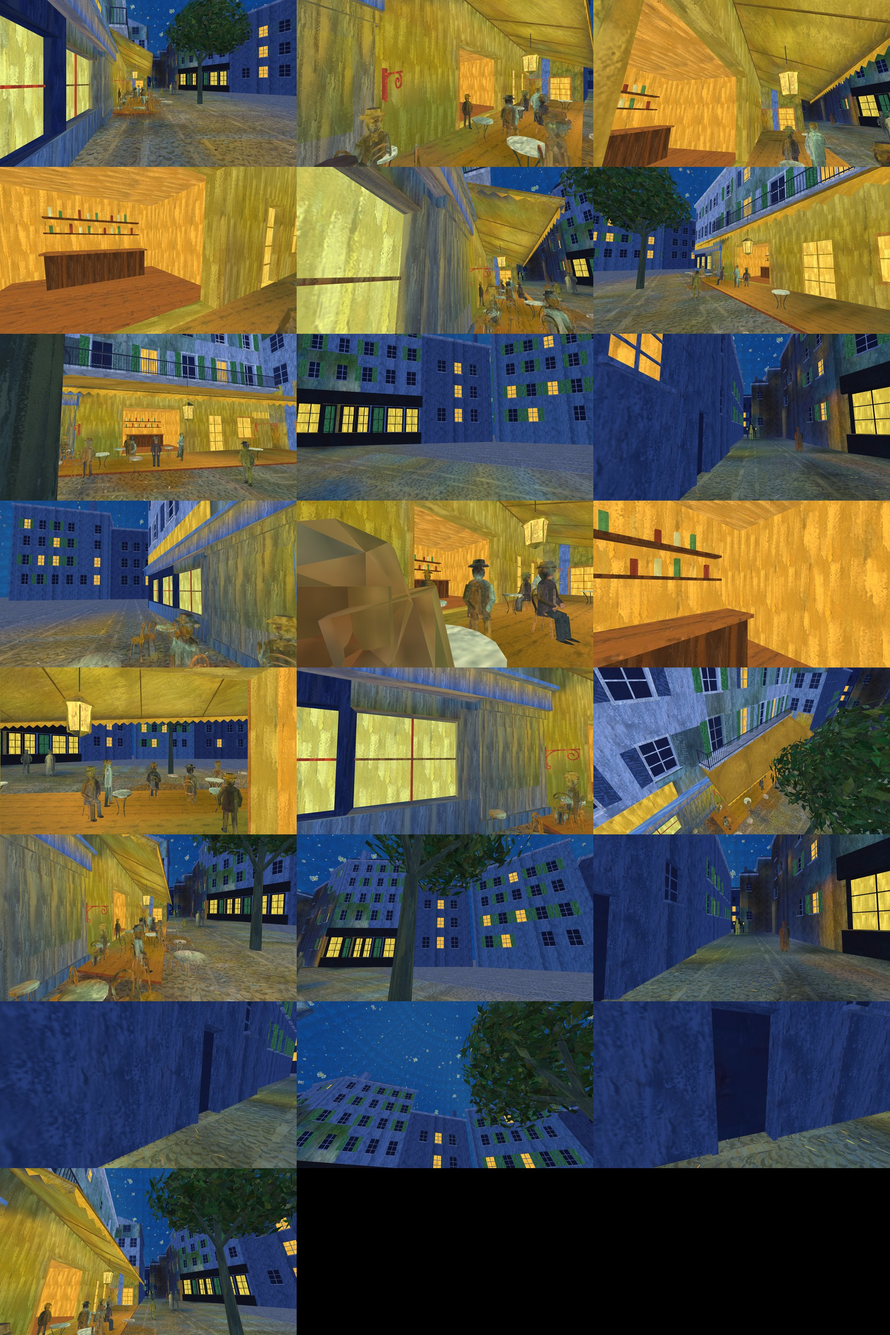
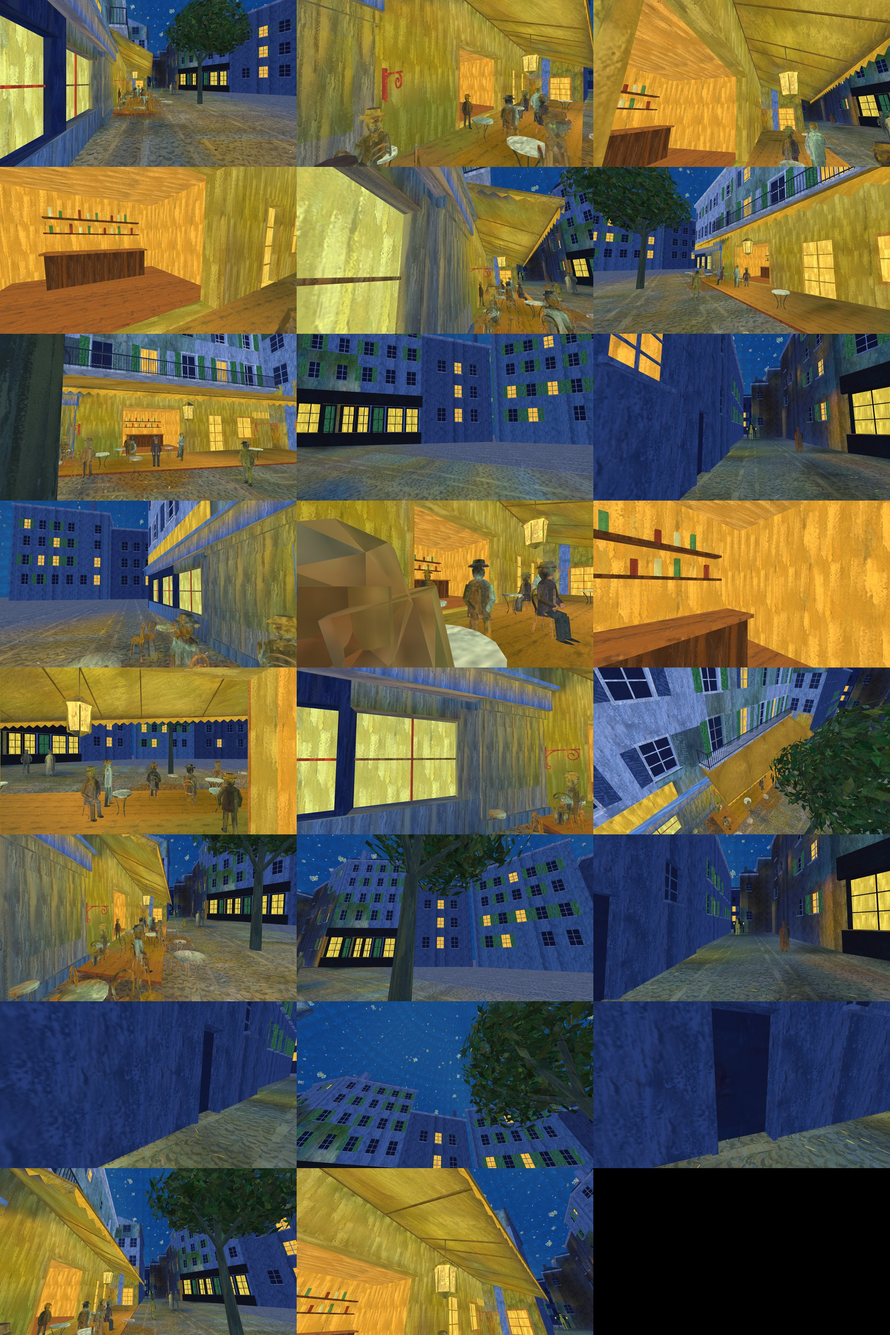
fix: hang the café's lantern from a rafter and keep its rod under the awning
The rod's centre sat half a hook too high and the awning's height was read by x alone, so the rod started 13 cm above the cap and came out 58 cm above the canvas. The awning's height over a point now comes from its four corners, the frame has a rafter over the lantern, and the rod runs from inside the cap into that rafter.

Changed region(s): [[0.3125, 0.875, 0.6875, 1.0]]

diff --git a/tests/cafe-set.test.ts b/tests/cafe-set.test.ts
@@ -3,7 +3,16 @@ import type { Texture } from 'three';
 import { describe, expect, test } from 'vitest';
 import { PAINTER_EYE, toCanvas } from '../src/paintings/cafe-terrace-at-night/canvas';
 import { box, wall, wallFrame, wallPoint } from '../src/paintings/cafe-terrace-at-night/kit';
-import { ID, inPaintedSky, STARS, SWATCH } from '../src/paintings/cafe-terrace-at-night/layout';
+import { buildLantern } from '../src/paintings/cafe-terrace-at-night/lantern';
+import {
+  AWNING,
+  awningOver,
+  ID,
+  inPaintedSky,
+  LAMP,
+  STARS,
+  SWATCH,
+} from '../src/paintings/cafe-terrace-at-night/layout';
 import {
   createPaintMaterial,
   type Paint,
@@ -407,6 +416,62 @@ describe('café set', () => {
     let count = 0;
     while (!steps.next().done) count++;
     expect(count).toBeGreaterThanOrEqual(15);
+  });
+});
+
+describe('café lantern', () => {
+  const set = paintBuilder([]);
+  drain(buildSet(set, mulberry32(8)));
+  const lamp = paintBuilder([]);
+  buildLantern(lamp);
+  const parts = triangles(lamp).map(({ corners }) => corners.map((c) => c[1]));
+  const top = Math.max(...parts.flat());
+
+  /** Heights at which the plumb line through the lantern meets the set, lowest first. */
+  const overhead = triangles(set)
+    .flatMap(({ corners: [a, b, c] }) => {
+      const area = (b[0] - a[0]) * (c[2] - a[2]) - (c[0] - a[0]) * (b[2] - a[2]);
+      if (Math.abs(area) < 1e-9) return [];
+      const u = ((LAMP[0] - a[0]) * (c[2] - a[2]) - (c[0] - a[0]) * (LAMP[2] - a[2])) / area;
+      const v = ((b[0] - a[0]) * (LAMP[2] - a[2]) - (LAMP[0] - a[0]) * (b[2] - a[2])) / area;
+      if (u < 0 || v < 0 || u + v > 1) return [];
+      return [a[1] + u * (b[1] - a[1]) + v * (c[1] - a[1])];
+    })
+    .filter((y) => y > LAMP[1])
+    .sort((p, q) => p - q);
+
+  test('hangs in one piece: its rod meets its cap', () => {
+    const spans = parts.map((ys) => [Math.min(...ys), Math.max(...ys)]).sort((p, q) => p[0] - q[0]);
+    let reached = spans[0][1];
+    for (const [low, high] of spans) {
+      expect(low).toBeLessThanOrEqual(reached + 1e-4);
+      reached = Math.max(reached, high);
+    }
+  });
+
+  test("its rod ends inside a rafter of the awning's frame, and never comes out above it", () => {
+    // The first thing over the lantern is the rafter it hangs from, and the rod stops inside it.
+    expect(overhead.length).toBeGreaterThan(3);
+    expect(top).toBeGreaterThan(overhead[0]);
+    expect(top).toBeLessThan(overhead[1]);
+    expect(overhead[1] - overhead[0]).toBeLessThan(0.06);
+  });
+
+  test("the awning's height over a point is the canvas the set builds there", () => {
+    const { y, along } = awningOver(LAMP[0], LAMP[2]);
+    expect(Math.min(...overhead.map((hit) => Math.abs(hit - y)))).toBeLessThan(0.005);
+    expect(along).toBeGreaterThan(0);
+    expect(along).toBeLessThan(1);
+    for (const [corner, far] of [
+      [AWNING[0], 0],
+      [AWNING[1], 0],
+      [AWNING[2], 1],
+      [AWNING[3], 1],
+    ] as const) {
+      const at = awningOver(corner[0], corner[2]);
+      expect(at.y).toBeCloseTo(corner[1], 6);
+      expect(at.along).toBeCloseTo(far, 6);
+    }
   });
 });
 

diff --git a/src/paintings/cafe-terrace-at-night/scene.ts b/src/paintings/cafe-terrace-at-night/scene.ts
@@ -22,13 +22,12 @@ import { mulberry32 } from '../../util/prng';
 import type { Steps } from '../../util/slicer';
 import { CANVAS_ASPECT } from './canvas';
 import { rasterizeIds } from './id-map';
+import { buildLantern } from './lantern';
 import {
-  AWNING,
   BUILT,
   CHAIRS,
   ID,
   isProp,
-  LAMP,
   PEOPLE,
   SEAT_HEIGHT,
   SWATCH,
@@ -87,7 +86,6 @@ const TABLETOP = 0xb7be97;
 const IRON = 0x313c37;
 const CANE = 0xa9743a;
 const BARK = 0x2a3838;
-const LANTERN = 0xf5cd60;
 
 /** A prop's paint: its own id, and its far side in its near side's colours. */
 function prop(id: number, tint: number, more: Partial<Paint> = {}): Paint {
@@ -360,48 +358,10 @@ export function* buildCafeScene(seed: number, scan: Texture, raster: Raster): St
     }
     yield;
 
-    // The lantern: six lit panes in an iron cage, hung from the awning's frame.
     const lamp = paintBuilder(patches);
-    const glass = new CylinderGeometry(0.2, 0.15, 0.42, 6);
-    const cap = new CylinderGeometry(0.04, 0.25, 0.16, 6);
-    const lit = prop(ID.lamp, LANTERN, { painted: false, lit: true });
-    const cage = prop(ID.lamp, IRON);
-    // As big as the scan paints it: about 0.7 m of glass.
-    const big = 1.6;
-    lamp.mesh(glass, placed(LAMP, [big, big, big]), lit);
-    lamp.mesh(cap, placed([LAMP[0], LAMP[1] + 0.29 * big, LAMP[2]], [big, big, big]), cage);
-    lamp.mesh(
-      cap,
-      placed([LAMP[0], LAMP[1] - 0.25 * big, LAMP[2]], [0.7 * big, -0.5 * big, 0.7 * big]),
-      cage,
-    );
-    for (let i = 0; i < 6; i++) {
-      const a = (i * Math.PI) / 3 + Math.PI / 6;
-      lamp.mesh(
-        cylinder,
-        placed(
-          [LAMP[0] + 0.185 * big * Math.cos(a), LAMP[1], LAMP[2] + 0.185 * big * Math.sin(a)],
-          [0.016, 0.44 * big, 0.016],
-        ),
-        cage,
-      );
-    }
-    // The rod reaches the awning, which falls from the wall to its outer edge.
-    const [nearWall, nearOuter] = AWNING;
-    const fall = (LAMP[0] - nearWall[0]) / (nearOuter[0] - nearWall[0]);
-    const rod =
-      nearWall[1] + (nearOuter[1] - nearWall[1]) * Math.min(1, Math.max(0, fall)) - LAMP[1];
-    const hook = 0.3 * big;
-    lamp.mesh(
-      cylinder,
-      placed(
-        [LAMP[0], LAMP[1] + hook + rod / 2, LAMP[2]],
-        [0.014, Math.max(0.1, rod - hook), 0.014],
-      ),
-      cage,
-    );
+    buildLantern(lamp);
 
-    for (const geometry of [cylinder, bark, table, chair, leaf, glass, cap]) geometry.dispose();
+    for (const geometry of [cylinder, bark, table, chair, leaf]) geometry.dispose();
     yield;
     const sky = paintBuilder(patches);
     const stars = yield* buildSky(sky, raster, mulberry32(seed + 53));

diff --git a/src/paintings/cafe-terrace-at-night/lantern.ts b/src/paintings/cafe-terrace-at-night/lantern.ts
@@ -1,0 +1,42 @@
+import { CylinderGeometry, Matrix4, Quaternion, Vector3 } from 'three';
+import type { Vec3 } from '../../render/strokes/frame';
+import { awningOver, ID, LAMP, RAFTER_DROP, SWATCH } from './layout';
+import type { Paint, PaintBuilder } from './paint';
+
+const IRON = 0x313c37;
+const LANTERN = 0xf5cd60;
+/** As big as the scan paints it: about 0.7 m of glass. */
+const BIG = 1.6;
+
+/** The lantern: six lit panes in an iron cage, hung by a rod from the awning's rafter over it. */
+export function buildLantern(lamp: PaintBuilder): void {
+  const transform = new Matrix4();
+  const upright = new Quaternion();
+  const placed = (at: Vec3, size: Vec3): Matrix4 =>
+    transform.compose(new Vector3(...at), upright, new Vector3(...size));
+  const cylinder = new CylinderGeometry(1, 1, 1, 14);
+  const glass = new CylinderGeometry(0.2, 0.15, 0.42, 6);
+  const cap = new CylinderGeometry(0.04, 0.25, 0.16, 6);
+  const cage: Paint = { id: ID.lamp, swatch: SWATCH.plaster, tint: IRON, round: true };
+  const lit: Paint = { ...cage, tint: LANTERN, painted: false, lit: true };
+  const [x, y, z] = LAMP;
+  lamp.mesh(glass, placed(LAMP, [BIG, BIG, BIG]), lit);
+  lamp.mesh(cap, placed([x, y + 0.29 * BIG, z], [BIG, BIG, BIG]), cage);
+  lamp.mesh(cap, placed([x, y - 0.25 * BIG, z], [0.7 * BIG, -0.5 * BIG, 0.7 * BIG]), cage);
+  for (let i = 0; i < 6; i++) {
+    const a = (i * Math.PI) / 3 + Math.PI / 6;
+    lamp.mesh(
+      cylinder,
+      placed(
+        [x + 0.185 * BIG * Math.cos(a), y, z + 0.185 * BIG * Math.sin(a)],
+        [0.016, 0.44 * BIG, 0.016],
+      ),
+      cage,
+    );
+  }
+  // The rod: from inside the cap up into the rafter over it.
+  const foot = y + 0.33 * BIG;
+  const head = awningOver(x, z).y - RAFTER_DROP;
+  lamp.mesh(cylinder, placed([x, (foot + head) / 2, z], [0.014, head - foot, 0.014]), cage);
+  for (const geometry of [cylinder, glass, cap]) geometry.dispose();
+}

diff --git a/src/paintings/cafe-terrace-at-night/layout.ts b/src/paintings/cafe-terrace-at-night/layout.ts
@@ -183,6 +183,30 @@ export const AWNING: readonly [Vec3, Vec3, Vec3, Vec3] = [
   [REAR_LEFT_X + 0.02, AWNING_NEAR_WALL[1], REAR_Z + 0.02],
 ];
 
+/** How far under its canvas the awning's rafters run, metres. */
+export const RAFTER_DROP = 0.035;
+
+/**
+ * Where the plumb line through (x, z) meets the awning's canvas: its height there, and how far
+ * along the wall that is, 0 at the near end and 1 at the far.
+ */
+export function awningOver(x: number, z: number): { y: number; along: number } {
+  const [nearWall, nearOuter, farOuter, farWall] = AWNING;
+  const at = (a: Vec3, b: Vec3, t: number, axis: number): number =>
+    a[axis] + (b[axis] - a[axis]) * t;
+  let out = 0.5;
+  let along = 0.5;
+  // The awning is close to a rectangle in plan, so each pass all but settles both.
+  for (let i = 0; i < 12; i++) {
+    const near = at(nearWall, nearOuter, out, 2);
+    along = (z - near) / (at(farWall, farOuter, out, 2) - near);
+    const wall = at(nearWall, farWall, along, 0);
+    out = (x - wall) / (at(nearOuter, farOuter, along, 0) - wall);
+  }
+  const high = at(nearWall, farWall, along, 1);
+  return { y: high + (at(nearOuter, farOuter, along, 1) - high) * out, along };
+}
+
 /** Table height, metres. The painted tables are squat; this keeps their tops on their paint. */
 export const TABLE_HEIGHT = 0.62;
 export const SEAT_HEIGHT = 0.44;

diff --git a/src/paintings/cafe-terrace-at-night/set.ts b/src/paintings/cafe-terrace-at-night/set.ts
@@ -27,13 +27,16 @@ import {
 } from './kit';
 import {
   AWNING,
+  awningOver,
   DECK,
   DECK_HEIGHT,
   DOORWAY,
   DOORWAY_HEAD,
   facadeX,
   ID,
+  LAMP,
   NEAR_Z,
+  RAFTER_DROP,
   REAR_DEPTH,
   REAR_LEFT_TOP,
   REAR_LEFT_X,
@@ -425,9 +428,11 @@ function awning(set: PaintBuilder): void {
   // Its frame: a bar along each edge and a rafter every few metres.
   beam(set, lift(nearOuter, -0.03), lift(farOuter, -0.03), 0.045, 0.045, RAFTER);
   beam(set, lift(nearWall, -0.03), lift(farWall, -0.03), 0.045, 0.045, RAFTER);
-  for (let i = 0; i <= 6; i++) {
-    const high = lift(mix(nearWall, farWall, i / 6), -0.035);
-    const low = lift(mix(nearOuter, farOuter, i / 6), -0.035);
+  // The last is the one the lantern hangs from.
+  const rafters = [0, 1, 2, 3, 4, 5, 6].map((i) => i / 6);
+  for (const along of [...rafters, awningOver(LAMP[0], LAMP[2]).along]) {
+    const high = lift(mix(nearWall, farWall, along), -RAFTER_DROP);
+    const low = lift(mix(nearOuter, farOuter, along), -RAFTER_DROP);
     beam(set, high, low, 0.03, 0.035, RAFTER);
   }
   // The valance: a strip along the outer edge and the near end, scalloped along its foot.

diff --git a/scripts/cafe/walk.ts b/scripts/cafe/walk.ts
@@ -37,6 +37,8 @@ export const WALK_POSES: Record<string, readonly [number, number, number, number
   // The second Quest round: a door's foot fighting the ground, and painted roofs in the sky.
   'side-door': [1.5, 1.5, -25.3, 1.25, -0.22],
   'street-sky': [1.4, 1.6, -5, 0.02, 0.33],
+  // The third: the lantern's rod, loose from its cap and out through the awning.
+  lantern: [0.6, 1.6, -10.5, 0.69, 0.51],
 };
 
 if (import.meta.main) {

diff --git a/CLAUDE.md b/CLAUDE.md
@@ -275,7 +275,7 @@ keeps its authored camera even with the mode enabled.
 
 ## Café Terrace at Night (in progress)
 
-`src/paintings/cafe-terrace-at-night/`. A mesh-led world, live on the `?painting=cafe-terrace-at-night` URL and through its gallery frame. It is built as real geometry and judged by walking around it: `bun scripts/cafe/walk.ts <base-url> <out-dir>` captures 22 poses (close, oblique, from behind, inside the bar room, from above, and the seven poses of the 2026-11-15 Quest screenshots) and a contact sheet. Check that sheet before the painter view for any change to the set or its paint. The walk-through comes first (Paul, 2026-11-15): the painter's view must still compose as the painting, and nothing may be done for it that shows as painted-on texture from anywhere else.
+`src/paintings/cafe-terrace-at-night/`. A mesh-led world, live on the `?painting=cafe-terrace-at-night` URL and through its gallery frame. It is built as real geometry and judged by walking around it: `bun scripts/cafe/walk.ts <base-url> <out-dir>` captures 23 poses (close, oblique, from behind, inside the bar room, from above, and the eight poses of the 2026-11-15 Quest screenshots) and a contact sheet. Check that sheet before the painter view for any change to the set or its paint. The walk-through comes first (Paul, 2026-11-15): the painter's view must still compose as the painting, and nothing may be done for it that shows as painted-on texture from anywhere else.
 
 - Painter camera (`canvas.ts`): the eye is (0, 1.6, 0), vertical FOV 60°, aspect 1280 / 1596 (the scan as shipped). Its yaw and pitch put the street's vanishing point at canvas (0.51, 0.55) (`STREET_VANISH`), where the terrace's outer edge, the awning's outer edge and the right-hand rooflines meet and the standing figures' heads sit. Canvas points are fractions of the scan with v down. `toCanvas`, `canvasRay`, `onLevel`, `onFrontal` and `onPlane` convert between the canvas and the world. `painterCamera()` and `spawnPose()` return this camera and its spot.
 - Layout (`layout.ts`): measurements cast off the scan through that camera. The café façade has its own vanishing point (u 0.375), so it runs about 7° off the street axis. `AWNING`, `DECK` (the terrace's raised deck, `DECK_HEIGHT` 0.07 m), `DOORWAY` (the wide doorway, as distances along the façade from its near corner), `REAR_Z` (the wing that closes the terrace), `TABLES`, `CHAIRS`, `PEOPLE`, `TRUNK` and `LAMP` come from their painted positions (a tabletop is placed by its top at `TABLE_HEIGHT` 0.62 m, a figure by its feet and head). `groundHeight(x, z)` is the deck's and the room's floor step. `setSolids()` and `WALK_BOUNDS` bound walking, flight and teleport: the doorway is open as far as the room's counter (`ROOM_REACH`).
@@ -286,11 +286,12 @@ keeps its authored camera even with the mode enabled.
 - Id map (`id-map.ts`): a 821 × 1024 map of the nearest surface's id under each canvas point, rasterised on the CPU with a depth buffer on the slicer, with no renderer. It yields by pixels tested and by triangles set up, so a set that lies mostly off the canvas still builds in short steps.
 - Build steps: `bun scripts/cafe/time-build.ts` times each slicer step without a renderer. Measured 2026-11-15 on the M4 Max at a 1-minute load of about 40: 530 steps, about 320 ms in all, the longest 16 ms. A portal entry in headless Chromium at that load took 2.3 s with a longest step of 14.2 ms and a longest frame of 16.8 ms. No Quest figure is measured.
 - Assets: `public/paintings/cafe-terrace-at-night/world.webp` is the scan at its source size (1280 × 1596), written with its hash row by `scripts/scans/fetch.ts` (`WORLD_SCANS`). The build reads the gallery's `frame.webp` for the pixels it samples on the CPU (the bake, leaf colours, dab colours).
+- The lantern (`lantern.ts`, `buildLantern`) is six lit panes in an iron cage on a rod. The rod runs from inside the cap up into a rafter that `awning()` in `set.ts` lays over it, at `awningOver(x, z).y - RAFTER_DROP` (`layout.ts`: the awning's canvas height over a point, from its four corners, since it falls toward its outer edge and along its length). `tests/cafe-set.test.ts` checks the lantern is one piece from its foot to the rod's head and that the rod ends inside that rafter, under the canvas.
 - The tree is a bark trunk, a bough to each of five lobes (`CROWN` in `scene.ts`) and 2,800 pointed leaves through the lobes, thicker toward each lobe's skin, each one dab of the scan's foliage. It sways on a pivot and the lantern flickers (`uGain` on its own material clone), both on the motion clock, so `?noanim` holds them.
 - The stroke batch is 2,400 dabs on the cobbles in the scan's colour where each lies. The portal gathers them on the way out.
 - `WorldHandle.textures` lists the scan, so a portal transition uploads it before the world shows (the switcher otherwise finds only `material.map`). The id map stays on the CPU, for the bake.
 - With `?diag`, `__goghDiag().world` is `{ painting, seed, counts: { tables, chairs, people, leaves, stars, triangles }, strokes }`.
-- Fidelity: `bun scripts/cafe/fidelity.ts <capture.png>` scores a painter-view capture against the scan with the Starry Night metric. It is a loose guard, not a target (`scripts/cafe/fidelity-lib.ts`: SSIM ≥ 0.3, mean ΔE2000 ≤ 8). Measured 2026-11-15 on ANGLE Metal at 642 × 800: SSIM 0.3481, ΔE 6.395. With the scan still on the sky it scored 0.3693 and 6.225, and 0.172 and 27.5 from the street side. Earlier sets that wore the scan scored 0.57 and 0.98 and showed painted pictures on their geometry. `tests/e2e/cafe-terrace.spec.ts` holds the guard, checks that a street-side view fails it, and walks through the doorway into the room. `bun scripts/cafe/overlay.ts [out.jpg]` washes the id map over the scan, to check the layout against the painting.
+- Fidelity: `bun scripts/cafe/fidelity.ts <capture.png>` scores a painter-view capture against the scan with the Starry Night metric. It is a loose guard, not a target (`scripts/cafe/fidelity-lib.ts`: SSIM ≥ 0.3, mean ΔE2000 ≤ 8). Measured 2026-11-15 on ANGLE Metal at 642 × 800: SSIM 0.3473, ΔE 6.397 (0.3481 and 6.395 before the lantern's rod and rafter). With the scan still on the sky it scored 0.3693 and 6.225, and 0.172 and 27.5 from the street side. Earlier sets that wore the scan scored 0.57 and 0.98 and showed painted pictures on their geometry. `tests/e2e/cafe-terrace.spec.ts` holds the guard, checks that a street-side view fails it, and walks through the doorway into the room. `bun scripts/cafe/overlay.ts [out.jpg]` washes the id map over the scan, to check the layout against the painting.
 - Not yet done: no headset check of this build after the third round of fixes (stereo, frame rate, the look up close), the figures are plain low-polygon bodies, and the scan is only 1280 px on its short edge, so the swatch marks soften within about a metre.
 
 ## Notices (P5.6)

diff --git a/docs/verification.md b/docs/verification.md
@@ -4037,3 +4037,30 @@ The remaining difference is the 2,400 cobble dabs and resampling. Shot: docs/sho
 **Gates.** `make checkall-ci` passed on MiniMac at b3bbb63 (booked window, 1-minute load 1.6 before and 6.2 after, node 24.22.2, bun 1.4.4): 145 test files, 1889 tests, no leaks, no vulnerabilities, asset-check 46 files, audio rebuilt byte-identical. `actionlint` reports nothing on both workflows.
 
 **Not verified.** The queueing of two pushes in quick succession under `cancel-in-progress: false` was not exercised. It follows GitHub's documented concurrency behaviour.
+
+## Café Terrace: the lantern's rod (2026-11-15, branch claude/cafe-lamp)
+
+**Why.** Paul walked becd193 on the Quest and sent a screenshot (left of docs/shots/cafe-quest-lantern.jpg): the lantern over the terrace hung loose under its rod, and the rod came out through the top of the awning.
+
+**Cause.** Two faults in the rod's own arithmetic in `scene.ts`.
+
+- Its centre was set at the hook plus half the whole drop, with a length of the drop less the hook, so both ends sat half a hook (0.24 m) too high. The hook was also taken 0.11 m under the cap's top. The rod's foot was 0.128 m above the cap.
+- The awning's height over the lantern was read along the near end's fall by x alone. The awning also falls along its length and its wall is not at one x, so that read 4.23 m where the canvas is at 3.89 m. With the first fault the rod's head was 0.58 m above the canvas.
+
+**What changed.**
+
+- `awningOver(x, z)` in `layout.ts` gives the canvas height over a point from the awning's four corners, and how far along the wall that is.
+- `awning()` in `set.ts` lays one more rafter, over the lantern.
+- The lantern is `lantern.ts` (`buildLantern`), out of `scene.ts`. Its rod runs from inside the cap to the middle of that rafter, 0.035 m under the canvas.
+- Three tests in `tests/cafe-set.test.ts`, which failed before the fix: the lantern is one piece from foot to head, the rod's head lies inside the first thing over it (the rafter, under 0.06 m deep) and never above it, and `awningOver` agrees with the canvas the set builds and with the awning's corners.
+
+**Walk-around.** docs/shots/cafe-depth-walk.jpg, 23 poses on a production build (1280 × 720, ANGLE Metal, M4 Max), with the new `lantern` pose. The right of docs/shots/cafe-quest-lantern.jpg is that pose (a desktop capture, not a headset one). The `flight` pose shows nothing through the awning's top.
+
+**Painter view.** SSIM 0.3473, mean ΔE2000 6.397 (0.3481 and 6.395 before: the rod and the new rafter show in the view), against the guard of SSIM ≥ 0.3 and ΔE ≤ 8.
+
+**Build.** 118,574 triangles (118,562 before). `bun scripts/cafe/time-build.ts`: 532 steps, the longest 5.7 ms.
+
+**Gates.** `make checkall-ci` passed on MiniMac at eddec85's tree (booked load-tolerant window, 1-minute load 1.4 before and 2.9 after). `tests/e2e/cafe-terrace.spec.ts` passed there too, 11 tests with the `timing` project's teardown.
+
+**Not verified.** Nothing on the headset yet for this fix.
+
